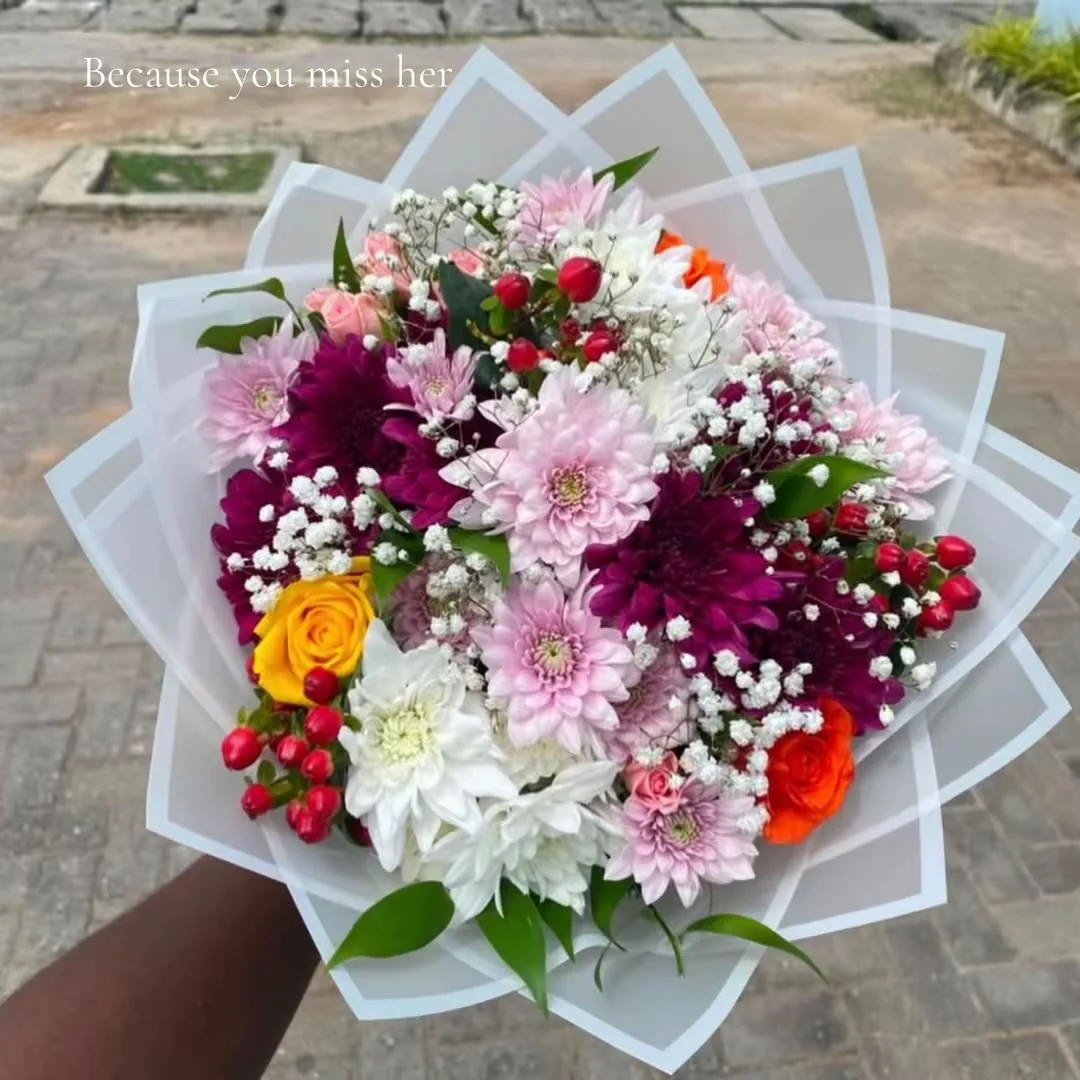
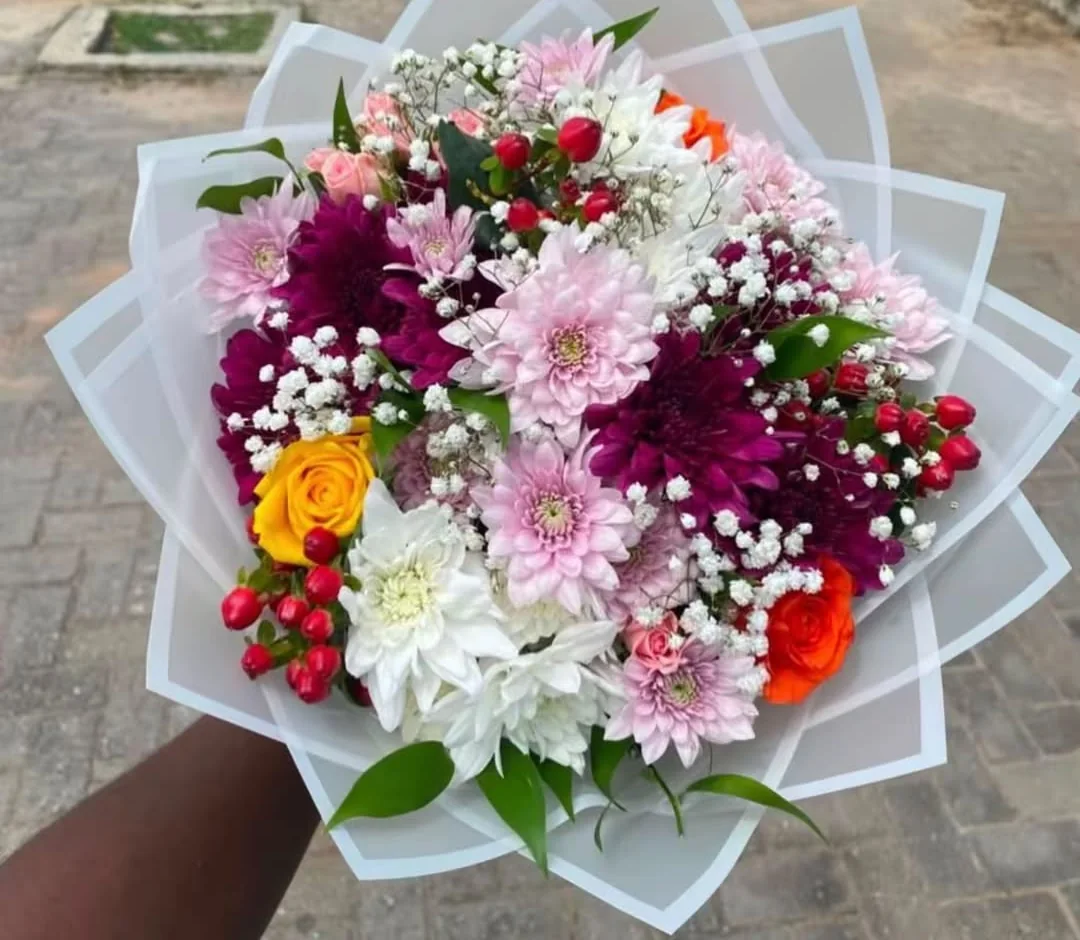
Refine Cherry hero spacing, overlay and navigation
- Headline sits in its own padded block (6-8rem top/bottom), slightly
  smaller so the space reads as intentional; meta aligns to its baseline
- Softer image treatment: gentle desaturation plus a light top veil and
  a radial veil behind the headline instead of a heavy dark band
- Header drops the difference blend: light text over the hero, then a
  frosted paper bar with ink text that hides on scroll down and returns
  on scroll up; Order becomes an outlined pill; solid fallback for
  reduced motion and no-JS
- Crop the printed caption off the mixed bouquet photo

Claude-Session: https://claude.ai/code/session_01LnE5f8ogY8sSuAPts1XTit

diff --git a/clients/cherry-editorial/src/styles/main.css b/clients/cherry-editorial/src/styles/main.css
@@ -98,54 +98,102 @@ button { font: inherit; color: inherit; }
 .progress { position: fixed; left: 0; right: 0; top: 0; height: 1px; z-index: 60; }
 .progress span { display: block; height: 100%; background: var(--accent); transform-origin: 0 50%; transform: scaleX(0); }
 
-/* ---------- Header ---------- */
+/* ---------- Header ----------
+   Light text over the hero; once past it, a frosted paper bar with ink text
+   that tucks away on scroll down and returns on scroll up. */
 .header {
+  --header-pad: clamp(24px, 3.2vh, 34px);
   position: fixed; inset: 0 0 auto; z-index: 50;
   display: grid; grid-template-columns: 1fr auto 1fr; align-items: center;
-  padding: 22px var(--gutter);
-  mix-blend-mode: difference; color: #f6f3ee;
+  padding: var(--header-pad) var(--gutter);
+  color: var(--paper);
+  transition: color .6s var(--ease), padding .6s var(--ease), transform .7s var(--ease);
 }
-.wordmark { font-family: var(--serif); font-style: italic; font-size: 1.45rem; letter-spacing: -0.01em; justify-self: start; }
-.nav { display: flex; gap: clamp(20px, 3vw, 44px); }
+.header::before {
+  content: ""; position: absolute; inset: 0; z-index: -1;
+  background: rgba(247, 242, 238, .84);
+  backdrop-filter: saturate(1.2) blur(16px); -webkit-backdrop-filter: saturate(1.2) blur(16px);
+  border-bottom: 1px solid var(--line);
+  opacity: 0; transition: opacity .6s var(--ease);
+}
+.header.is-solid, html:not(.js) .header { color: var(--ink); --header-pad: 16px; }
+html:not(.js) .header::before { opacity: 1; }
+.header.is-solid::before { opacity: 1; }
+.header.is-hidden { transform: translateY(-101%); }
+.wordmark { font-family: var(--serif); font-style: italic; font-size: 1.55rem; line-height: 1; letter-spacing: -0.01em; justify-self: start; }
+.nav { display: flex; gap: clamp(28px, 3.6vw, 56px); }
 .nav a, .header-cta {
-  font-size: 11px; font-weight: 500; letter-spacing: .18em; text-transform: uppercase;
-  position: relative; padding: 6px 0;
+  font-size: 11px; font-weight: 500; letter-spacing: .2em; text-transform: uppercase;
+  position: relative; padding: 6px 0; opacity: .92; transition: opacity .3s ease;
 }
-.nav a::after, .header-cta span::after {
+.nav a:hover { opacity: 1; }
+.nav a::after {
   content: ""; position: absolute; left: 0; right: 0; bottom: 0; height: 1px;
   background: currentColor; transform: scaleX(0); transform-origin: 100% 50%;
   transition: transform .6s var(--ease);
 }
-.nav a:hover::after, .header-cta:hover span::after { transform: scaleX(1); transform-origin: 0 50%; }
-.header-cta { justify-self: end; }
-.header-cta span { position: relative; padding-bottom: 6px; }
-@media (max-width: 720px) { .nav { display: none; } .header { grid-template-columns: 1fr auto; } }
+.nav a:hover::after { transform: scaleX(1); transform-origin: 0 50%; }
+.header-cta {
+  justify-self: end; padding: 10px 20px; border-radius: 999px;
+  border: 1px solid color-mix(in srgb, currentColor 45%, transparent);
+  transition: background .4s var(--ease), color .4s var(--ease), border-color .4s var(--ease);
+}
+.header-cta:hover { background: currentColor; border-color: currentColor; }
+.header-cta:hover span { color: var(--ink); }
+.header.is-solid .header-cta:hover span { color: var(--paper); }
+@media (max-width: 720px) {
+  .nav { display: none; }
+  .header { grid-template-columns: 1fr auto; --header-pad: 20px; }
+  .header.is-solid { --header-pad: 12px; }
+  .header-cta { padding: 8px 16px; }
+}
 
-/* ---------- Hero ---------- */
-.hero { position: relative; height: 100svh; min-height: 560px; overflow: hidden; }
+/* ---------- Hero ----------
+   The photograph leads; a soft veil and a low, localized gradient keep the
+   headline legible without a heavy band competing with it. */
+.hero { position: relative; height: 100svh; min-height: 620px; overflow: hidden; }
 .hero-media { position: absolute; inset: 0; overflow: hidden; will-change: clip-path; }
 .hero-canvas, .hero-fallback, .hero-fallback > * { position: absolute; inset: 0; width: 100%; height: 100%; }
+.hero-canvas, .hero-fallback { filter: saturate(.86) contrast(.96) brightness(1.02); }
 .hero-fallback > * { object-fit: cover; opacity: 0; transition: opacity 1.6s ease; }
 .hero-fallback > .active { opacity: 1; }
 .gl-hero .hero-fallback { visibility: hidden; }
-.hero-shade { position: absolute; inset: 0; background: linear-gradient(180deg, rgba(29,27,24,.28) 0%, rgba(29,27,24,0) 22%, rgba(29,27,24,0) 42%, rgba(29,27,24,.62) 100%); pointer-events: none; }
-.hero-copy {
-  position: absolute; left: var(--gutter); right: var(--gutter); bottom: clamp(72px, 11vh, 120px);
-  display: grid; gap: 22px; color: var(--paper);
+.hero-shade {
+  position: absolute; inset: 0; pointer-events: none;
+  background:
+    linear-gradient(180deg, rgba(29, 27, 24, .32) 0%, rgba(29, 27, 24, .1) 12%, rgba(29, 27, 24, 0) 22%),
+    radial-gradient(ellipse 62% 58% at 18% 82%, rgba(29, 27, 24, .4) 0%, rgba(29, 27, 24, .14) 55%, rgba(29, 27, 24, 0) 100%),
+    linear-gradient(0deg, rgba(29, 27, 24, .3) 0%, rgba(29, 27, 24, 0) 45%),
+    rgba(247, 242, 238, .04);
 }
-.hero-title { font-size: clamp(3.1rem, 9.4vw, 10.5rem); max-width: 11ch; }
+.hero-copy {
+  position: absolute; inset: 0;
+  display: flex; flex-direction: column; justify-content: flex-end; gap: clamp(22px, 3vh, 34px);
+  padding: clamp(6rem, 16vh, 8rem) var(--gutter) clamp(6rem, 14vh, 8rem);
+  color: var(--paper);
+  pointer-events: none;
+}
+.hero-title {
+  font-size: clamp(2.9rem, 7.6vw, 8.6rem); line-height: 1.02; max-width: 11ch;
+  text-shadow: 0 1px 28px rgba(29, 27, 24, .16);
+}
+.hero-eyebrow { opacity: .9; }
 .hero-meta {
-  position: absolute; right: var(--gutter); top: 50%; transform: translateY(-50%);
+  position: absolute; right: var(--gutter); bottom: clamp(6rem, 14vh, 8rem);
   display: grid; gap: 6px; justify-items: end; text-align: right; color: var(--paper);
 }
 .hero-caption { color: rgba(247, 242, 238, .78); }
 .scroll-cue {
-  position: absolute; right: var(--gutter); bottom: 28px;
-  display: flex; align-items: center; gap: 14px; color: var(--paper);
+  position: absolute; left: 50%; bottom: 32px; transform: translateX(-50%);
+  display: flex; align-items: center; gap: 14px; color: rgba(247, 242, 238, .85);
 }
 .scroll-cue i { width: 44px; height: 1px; background: currentColor; transform-origin: 0 50%; animation: cue 2.4s var(--ease-io) infinite; }
 @keyframes cue { 0% { transform: scaleX(0); } 50% { transform: scaleX(1); transform-origin: 0 50%; } 51% { transform-origin: 100% 50%; } 100% { transform: scaleX(0); transform-origin: 100% 50%; } }
-@media (max-width: 720px) { .hero-meta { top: auto; bottom: 28px; left: var(--gutter); right: auto; justify-items: start; text-align: left; transform: none; } }
+@media (max-width: 720px) {
+  .hero-copy { padding-bottom: 7.5rem; }
+  .hero-meta { bottom: 32px; left: var(--gutter); right: auto; justify-items: start; text-align: left; }
+  .scroll-cue { left: auto; right: var(--gutter); transform: none; }
+}
 
 /* ---------- Statement ---------- */
 .statement {

diff --git a/clients/cherry-editorial/src/scripts/main.ts b/clients/cherry-editorial/src/scripts/main.ts
@@ -104,6 +104,18 @@ export async function boot() {
   const statement = $("[data-words]");
   const words = SplitText.create(statement, { type: "words", wordsClass: "word" });
 
+  /* ---------------- Header: frosted bar after the hero, hides on scroll down ---------------- */
+  const header = $(".header");
+  ScrollTrigger.create({
+    trigger: ".statement", start: "top 64px", end: "max",
+    onToggle: (st) => {
+      header.classList.toggle("is-solid", st.isActive);
+      if (!st.isActive) header.classList.remove("is-hidden");
+    },
+    onUpdate: (st) => !reduce && header.classList.toggle("is-hidden", st.direction === 1 && st.progress > 0.002),
+  });
+  header.addEventListener("focusin", () => header.classList.remove("is-hidden"));
+
   if (reduce) {
     $(".loader")?.remove();
     document.documentElement.classList.remove("js");
@@ -114,6 +126,7 @@ export async function boot() {
   gsap.set(heroLines, { yPercent: 110 });
   gsap.set("[data-hero-in]", { opacity: 0, y: 16 });
   gsap.set(".hero-media", { scale: 1.12 });
+  gsap.set(".header", { opacity: 0 });
 
   const loaderNum = $(".loader-num");
   const counter = { v: 0 };
@@ -140,6 +153,7 @@ export async function boot() {
       .to(".hero-media", { scale: 1, duration: 2.4 }, "<0.1")
       .to(heroLines, { yPercent: 0, duration: 1.6, stagger: 0.12 }, "<0.45")
       .to("[data-hero-in]", { opacity: 1, y: 0, duration: 1.2, stagger: 0.08 }, "<0.4")
+      .to(".header", { opacity: 1, duration: 1.2, clearProps: "opacity" }, "<")
       .add(() => {
         $(".loader")?.remove();
         lenis?.start();
